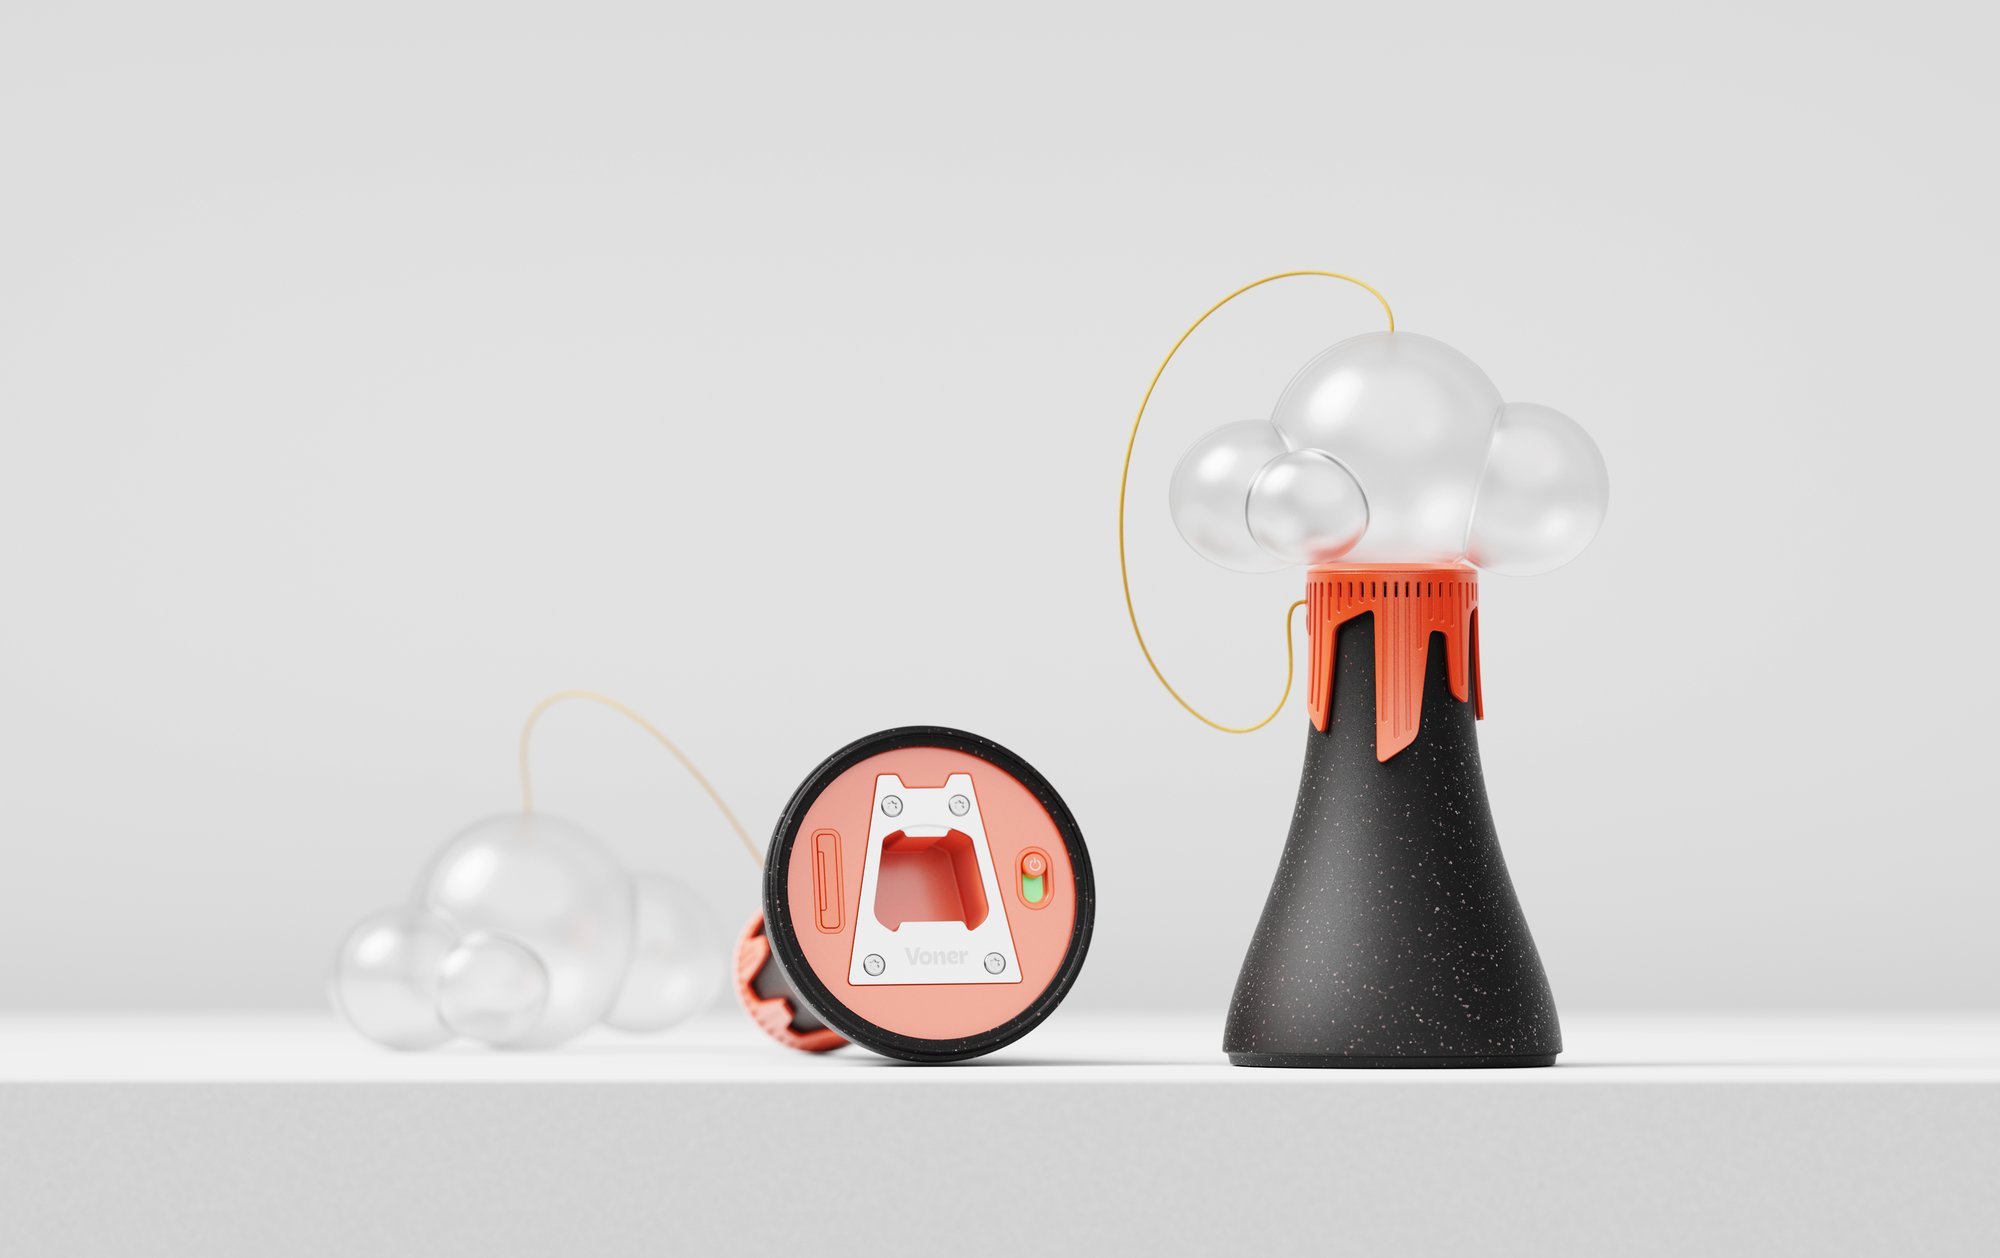
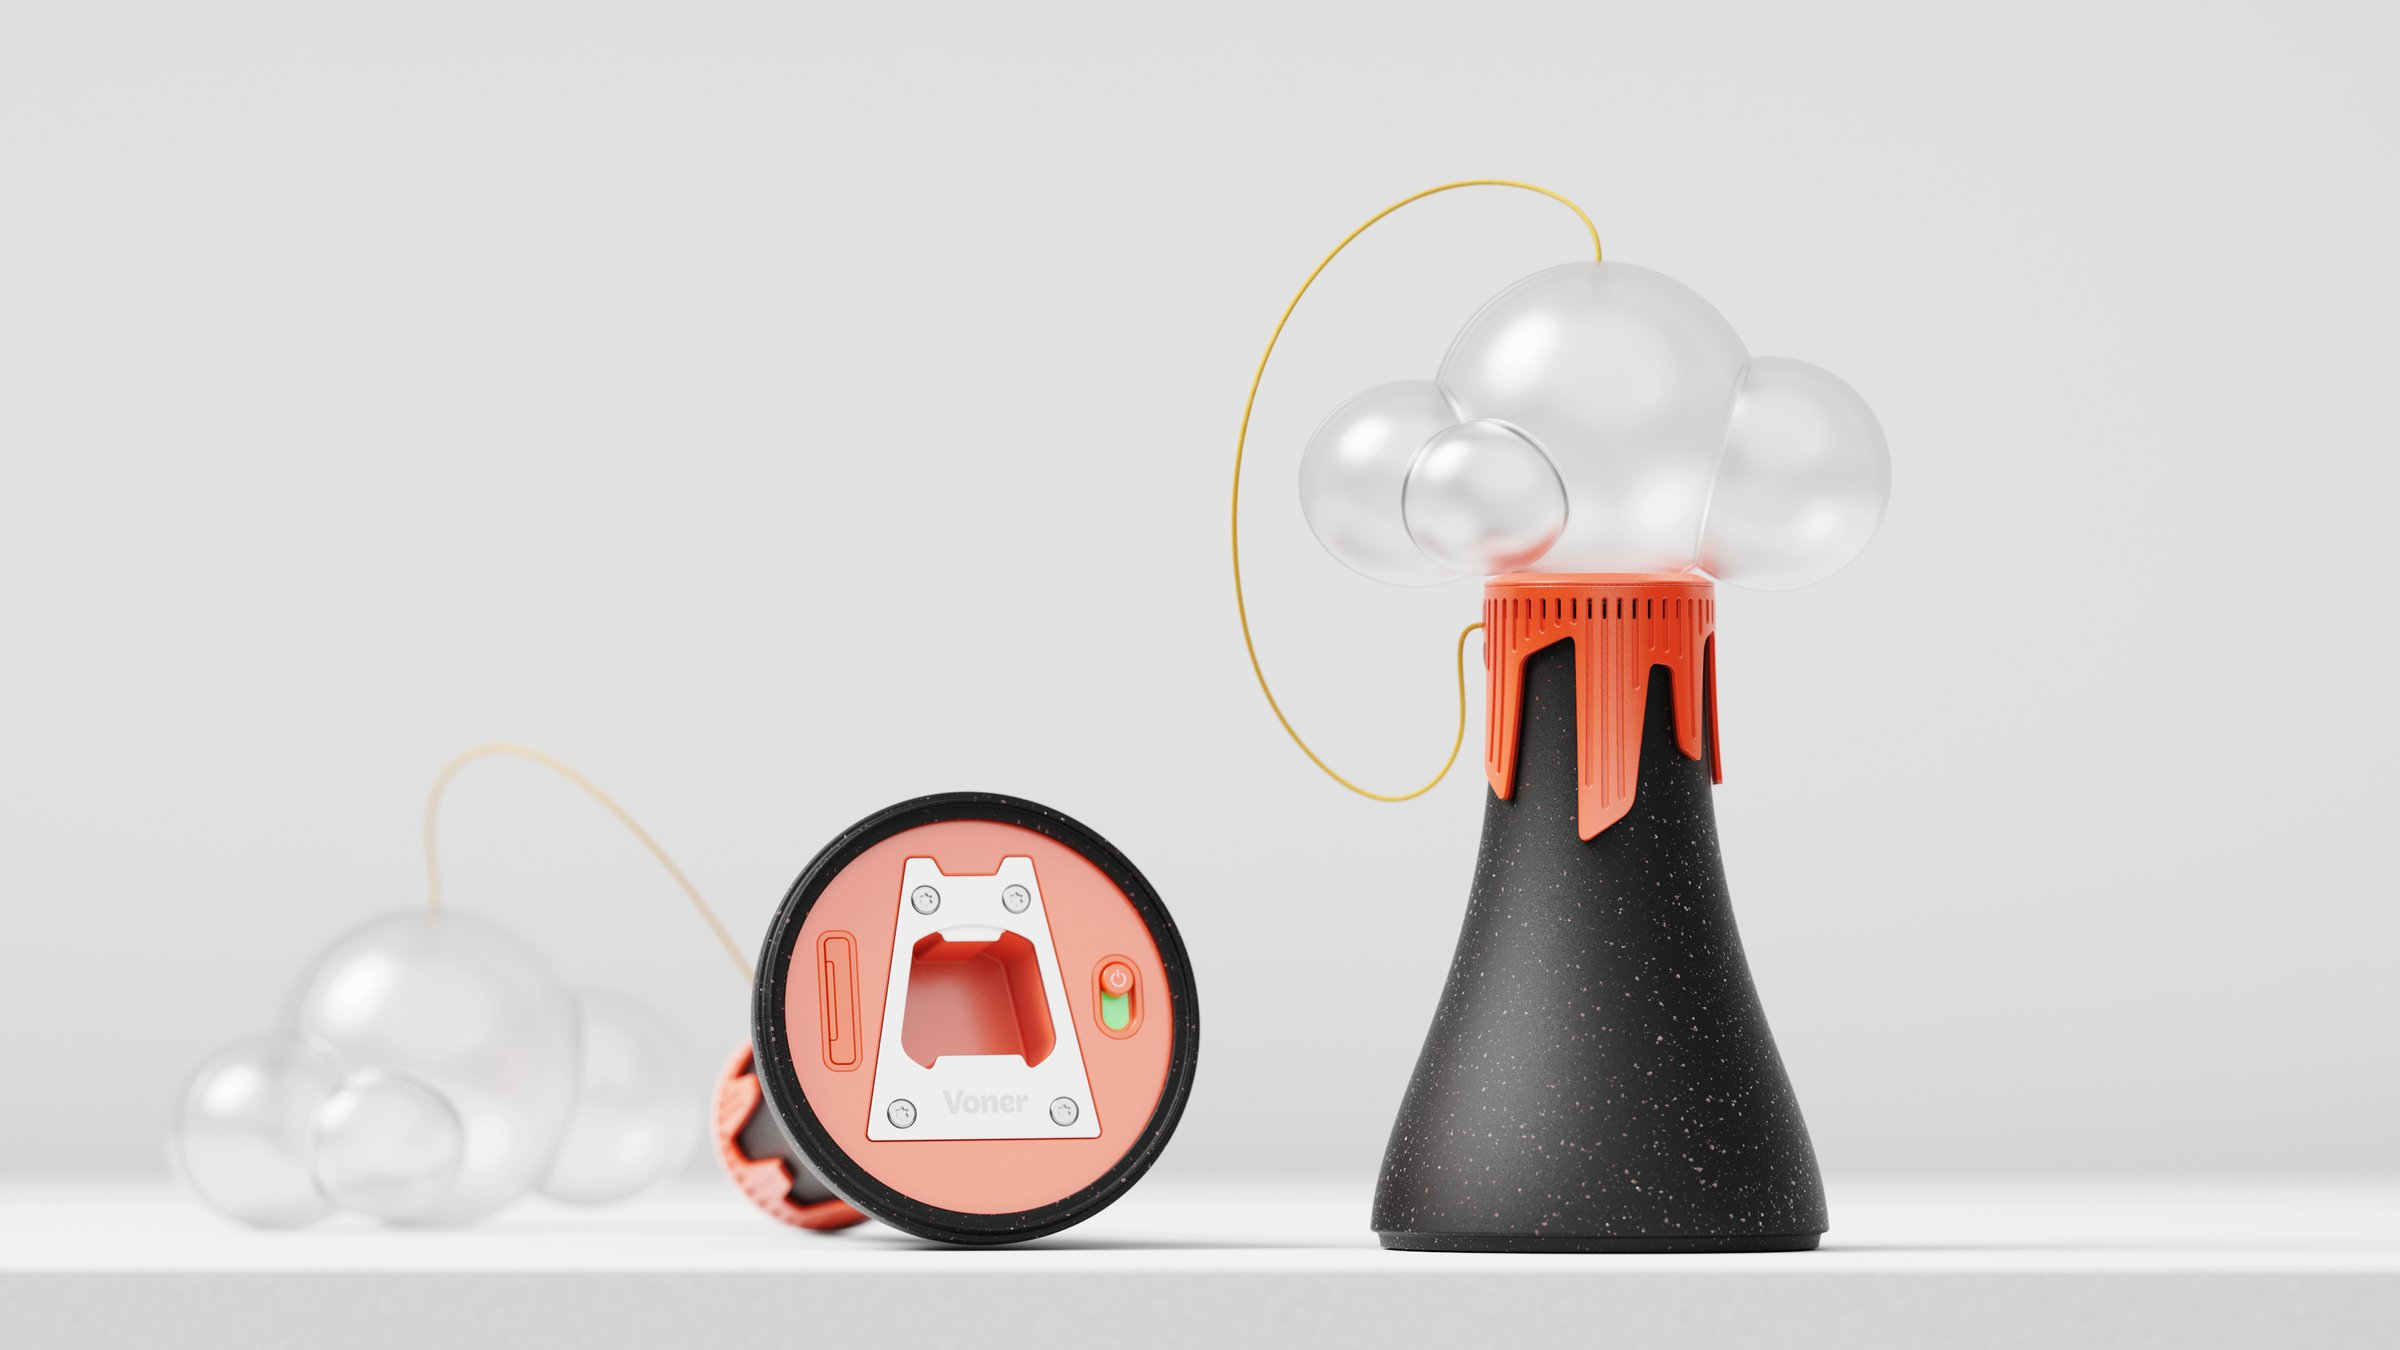
Update detail-page hero images for 5 projects (PORTERBOT unchanged)
Claude-Session: https://claude.ai/code/session_01DuSswWf5f4YisWgcdZdx4a

diff --git a/allways.html b/allways.html
@@ -22,7 +22,7 @@
   <p class="meta"><span class="mi">2025.03 – 2025.10</span><span class="dot"> · </span><span class="mi">Personal Project</span><span class="dot"> · </span><span class="mi">PIN UP 2026 / 2025 INDEF</span></p>
 </div>
 </div>
-<div class="p-hero"><img src="images/allways-hero.jpg" width="2000" height="1258" alt="ALLWAYS 대표 이미지"></div>
+<div class="p-hero"><img src="images/allways-hero.jpg" width="2400" height="1350" alt="ALLWAYS 대표 이미지"></div>
 <div class="wrap">
 <div class="p-text"><div><h3>Background</h3><p>고령화 사회로 접어든 오늘날, 은퇴 후에도 단순한 휴식이 아닌 여행 트레킹 등 외부 활동을 즐기려는 액티브 시니어가 증가하고 있다. 이들은 여가를 통해 자율성과 삶의 활력을 추구하지만, 체력 저하, 장거리 이동의 피로, 낯선 환경에 대한 불안 등으로 인해 활동 지속에 제약을 겪는다. 이에 따라 신체적 부담을 줄이고 외부 활동의 자율성과 안전성을 높이는 액티브 시니어를 위한 여행 동반 로봇 ALLWAYS를 제안한다.</p></div><div><h3>Concept &amp; Solution</h3><p>액티브 시니어가 겪는 페인포인트를 크게 4가지 그룹으로 묶어 시니어 맞춤 정보 제공과 체력 및 이동 경험 향상, 원스톱 경험 서비스, 데이터 관리 및 보상을 기회요소로 발견하였고, 조형적으로 전체적으로 곡선이 아래로 갈수록 넓어지며 안정적이고 부드러운 조형으로 친숙한 이미지로 사용자에게 다가간다. 중앙에는 넓게 열린 오픈 트레이 공간과 전면으로 확장되는 수납함, 내부를 볼 수 있는 글라스를 배치해 솔리드한 실루엣에 개방감을 더했다.</p></div></div>
 <div class="imgs">

diff --git a/brezzing.html b/brezzing.html
@@ -22,7 +22,7 @@
   <p class="meta"><span class="mi">2024.09 – 2024.12</span><span class="dot"> · </span><span class="mi">Team Project</span></p>
 </div>
 </div>
-<div class="p-hero"><img src="images/brezzing-hero.jpg" width="2000" height="1258" alt="BREEZING 대표 이미지"></div>
+<div class="p-hero"><img src="images/brezzing-hero.jpg" width="2400" height="1350" alt="BREEZING 대표 이미지"></div>
 <div class="wrap">
 <div class="p-text"><div><h3>Background</h3><p>더운 날 아웃도어 활동을 하다보면 시원한 바람을 쐬기 위해서 휴대형 선풍기를 사용하는 경우가 많다. 하지만 기존의 휴대형 선풍기의 경우 바람을 쐬기 위해서 사용자가 원하는 위치에 맞추어 팔을 장시간 들고 있어 팔에 무리가 간다는 단점이 있다.</p><p>BREEZING은 사용자가 아웃도어 활동에만 집중하며, 상쾌하게 시간을 보낼 수 있도록 해준다.</p></div><div><h3>Concept &amp; Solution</h3><p>BREEZING은 팔찌 형태와 휴대형 선풍기의 기능을 결합하여, 두 손 모두 자유로워 다양한 도구를 활용하는 아웃도어 활동에서 유용하다. 또한 타깃으로 지정했던 캐주얼한 아웃도어 활동을 즐기는 20-30대 남성과 여성의 손, 손목 사이즈에 알맞을 수 있도록 프로토타입을 통해 외부 링 사이즈 110mm 내부사이즈 80mm로 지정하였고 스트랩을 통해서 넣고 빼기 편리하며 손목에 고정할 수 있다. 조작부 스틱을 엄지손가락으로 편리하게 조작할 수 있는 길이와 조작 방법으로 컬럼형태의 조작부와 토글 방식을 결합하여 엄지 손가락으로 쉽게 사용할 수 있다.</p></div></div>
 <div class="imgs">

diff --git a/voner.html b/voner.html
@@ -22,7 +22,7 @@
   <p class="meta"><span class="mi">2024.09 – 2024.11</span><span class="dot"> · </span><span class="mi">Team Project</span></p>
 </div>
 </div>
-<div class="p-hero"><img src="images/voner-hero.jpg" width="2000" height="1258" alt="VONER 대표 이미지"></div>
+<div class="p-hero"><img src="images/voner-hero.jpg" width="2400" height="1350" alt="VONER 대표 이미지"></div>
 <div class="wrap">
 <div class="p-text"><div><h3>Field Research</h3><p>원형의 스테인리스 재질의 테이블을 가지고 있는 포차의 대중적인 이미지를 가지고 있는 고기집을 대상으로 지정하여 리서치를 진행하였다. 중앙에 있는 불판으로 인해서 테이블 바닥과 주변으로 기름들이 많이 튀기는 문제와 여러 반찬과 술병으로 인해서 납작한 형태의 병따개를 찾기 쉽지 않은 구조였다.</p></div><div><h3>Storytelling &amp; Concept</h3><p>#즐거운 분위기 #열기 #등산 #온도</p><p>오랜만에 재회한 친구들과의 산행, 그리고 하산 후 고깃집에서의 술자리. 그곳에서 느낀 20대 시절의 즐거운 열정을 작품의 스토리로 담았다. 끓어오르는 에너지와 뜨거운 분위기를 시각화하기 위해 화산을 조형 컨셉으로 설정하여 그 시절의 온도를 표현하고자 했다.</p></div></div>
 <div class="imgs">

diff --git a/stand.html b/stand.html
@@ -22,7 +22,7 @@
   <p class="meta"><span class="mi">2024.09 – 2024.12</span><span class="dot"> · </span><span class="mi">Personal Project</span><span class="dot"> · </span><span class="mi">K-DESIGN 2025</span></p>
 </div>
 </div>
-<div class="p-hero"><img src="images/stand-hero.jpg" width="2000" height="1258" alt="STAND 대표 이미지"></div>
+<div class="p-hero"><img src="images/stand-hero.jpg" width="2400" height="1350" alt="STAND 대표 이미지"></div>
 <div class="wrap">
 <div class="p-text"><div><h3>Background</h3><p>선진국에서는 저출산과 고령화로 인한 인구감소로 지방 소멸과 도시 유령화 현상이 심화될 것이다. 이로 인해 나타날 각종 범죄와 사고를 방지하기 위해 많은 사회적 비용이 발생하는 것을 줄이고, 시민들의 안심 귀가를 돕는 안심귀가 렌탈서비스 STAND를 제안한다.</p></div><div><h3>Concept &amp; Solution</h3><p>STAND는 원스톱 렌탈 서비스를 제공하여 누구나 쉽게 빌릴 수 있고, 위험 상황 시에는 자동 시스템이 즉각적으로 대응하여 숙련도나 개인 구비 없이도 편리하게 사용할 수 있으며, 평상 시에도 사용자가 안심하고 귀가할 수 있도록 심리적인 안정감을 준다.</p></div></div>
 <div class="imgs">

diff --git a/unveiling.html b/unveiling.html
@@ -22,7 +22,7 @@
   <p class="meta"><span class="mi">2026.02</span><span class="dot"> · </span><span class="mi">Intern Works</span></p>
 </div>
 </div>
-<div class="p-hero"><img src="images/unveiling-hero.jpg" width="2000" height="1258" alt="UNVEILING 대표 이미지"></div>
+<div class="p-hero"><img src="images/unveiling-hero.jpg" width="2400" height="1350" alt="UNVEILING 대표 이미지"></div>
 <div class="wrap">
 <div class="p-text"><div><h3>Background</h3><p>UNVEILING은 그저 단순한 귀여운 이미지 뿐만 아니라 숨겨진 도도함과 시크함을 표현하고자 하는 여성들을 타깃으로 디자인하였다.</p><p>여성의 다면적인 캐릭터성을 상반되는 조형과 재질의 만남과 어우러짐으로 표현하고자 했다.</p></div><div><h3>Concept &amp; Solution</h3><p>당당함과 반전미를 보여줄 수 있는 조형을 고민했다.</p><p>부드러움과 귀여움 뿐만 아니라 여성의 당당함과 반전미를 보여주기 위해서, 부드러운 조형인 원기둥과 부드러운 곡선의 형태와 엣지와 각이 있는 조형을 결합했다.</p></div></div>
 <div class="imgs">
